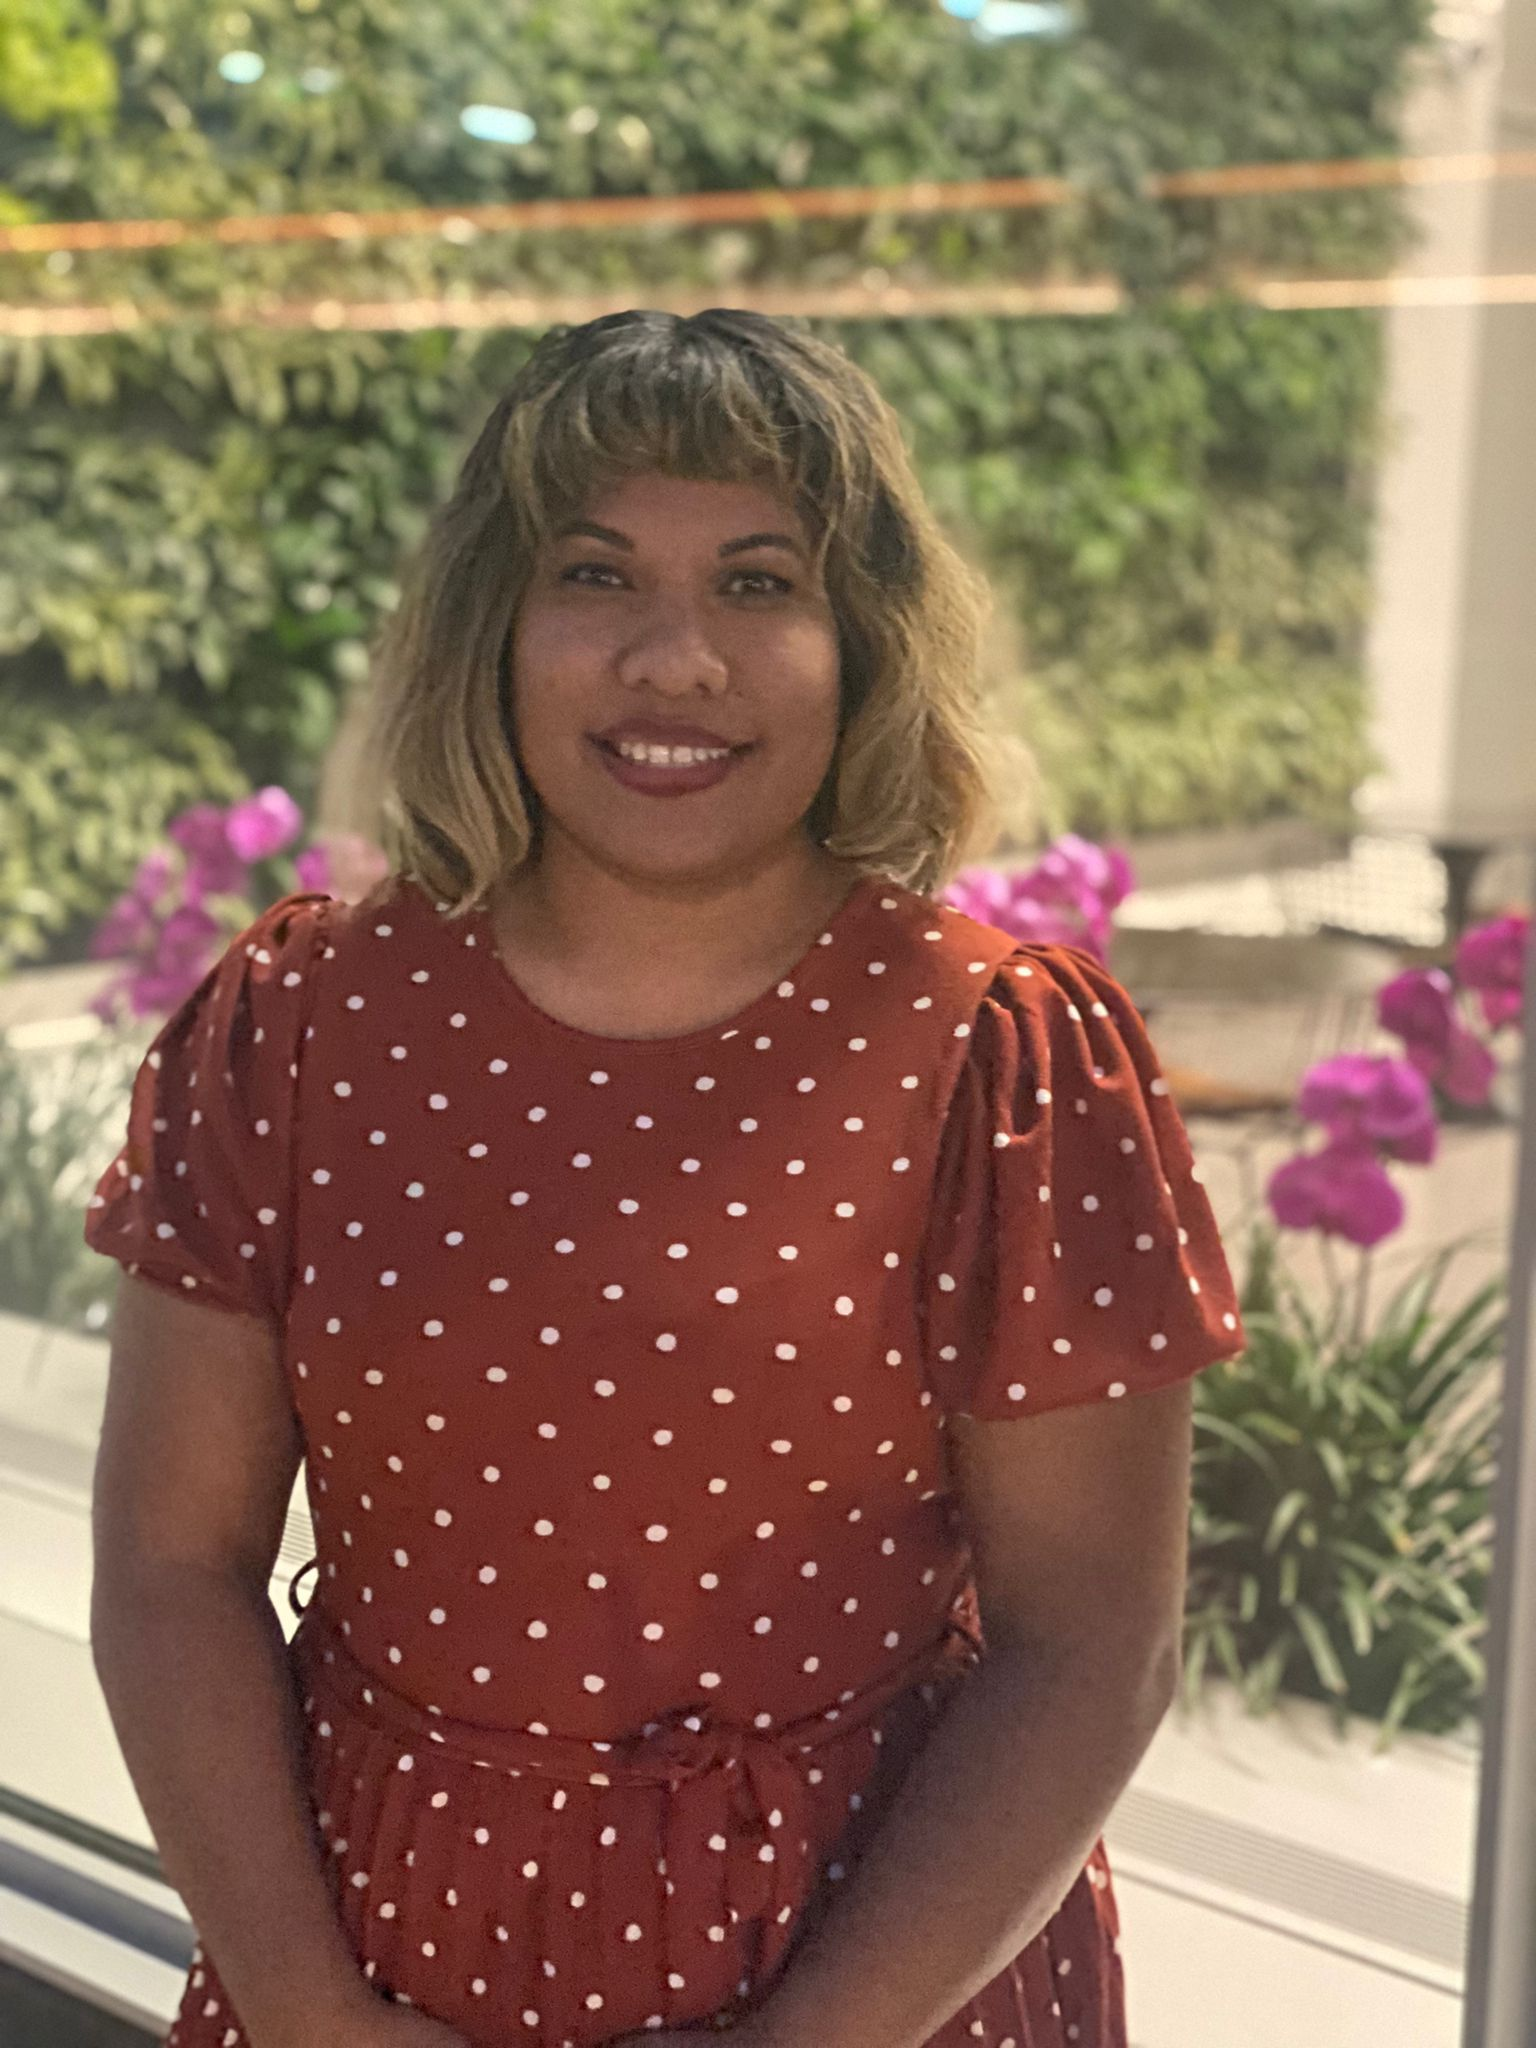
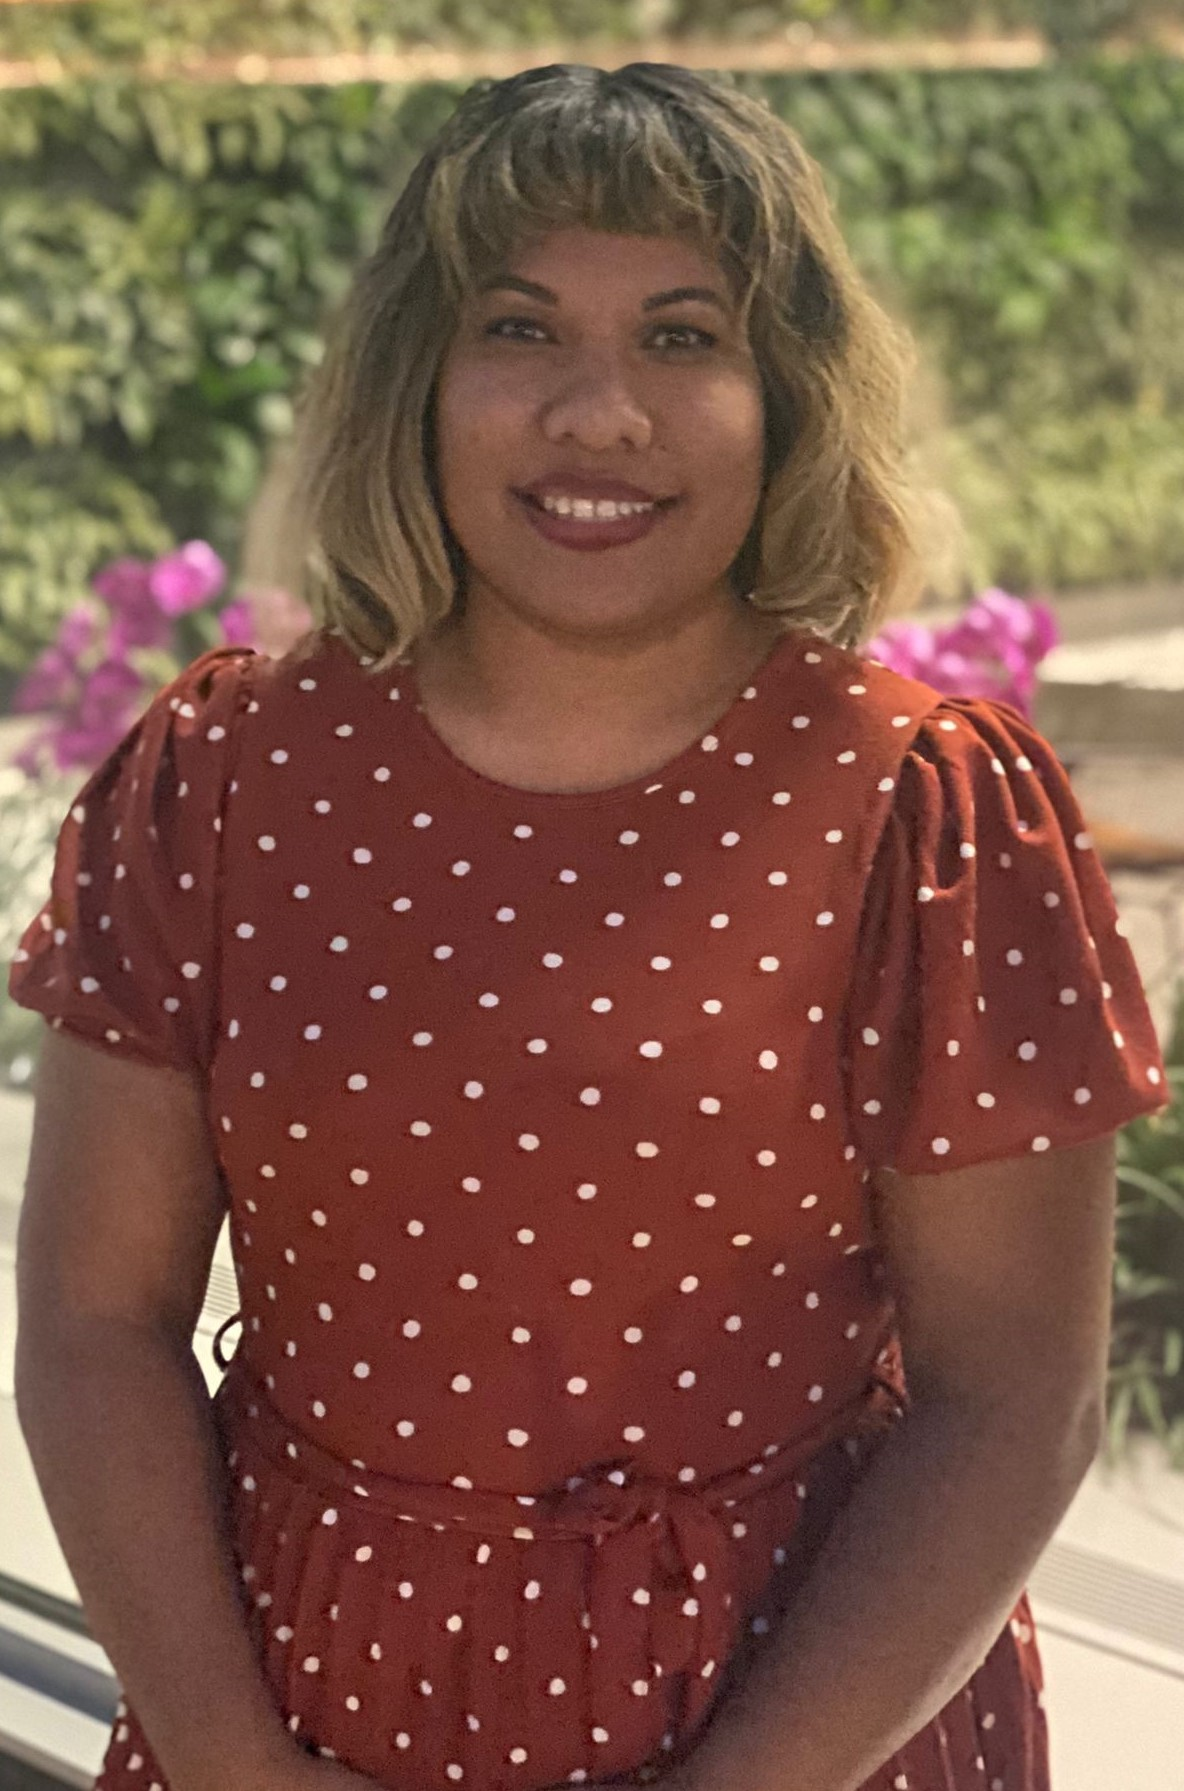
updated pic

diff --git a/index.html b/index.html
@@ -29,15 +29,13 @@
         <h1>The Making of a Software Engineer: Cynthia Hutauruk</h1>
         <h3>Welcome to my extraordinary life!</h3>
         <nav>
-            <a href="index.html"> Home </a>
+            <a href="index.html"> Home </a> &nbsp
             <a href="pages/stories.html"> Favorite Show </a>
     </nav>
     </div>
-    #<div id="cyphpic">
-        <img src="ProfileCYPH.jpg" class="center">
-        </p>
-    #</div>
     <div id="div2">
+        <br>
+        <img src="resprofile.jpg" class="center">
         <p id="paraAboutMe"><span>Hello there! I am a software engineer based out of Denver, Colorado. Originally I came from Indonesia, spent five years soaking up the sun in Southern California and have been braving Colorado's temperamental weather since 1996. 
         <br><br>
         I have a background in psychology, computer information systems, healthcare finance and research analysis. My mission is to create accurate patient narratives through data. I would love to collaborate with you on your business needs.</span></p>
@@ -45,20 +43,18 @@
         <p>If you're interested in connecting professionally, you can find me on LinkedIn below. For pet modeling inquiries, check out my Instagram instead.</p>
 
     </div>
-    <div class="div3">    
-    <h3>Recent projects:</h3>
-            <ul>
-                <p>Hobbies - </p>
+    <div id="div3">  
+        <h3>Recent projects:</h3>
+            <ol>
                 <li><a href="https://github.com/chutauruk/chutauru/blob/master/Durianoffroad.jpg">
-                    Obedience training to prepare my dog, Durian, for pet modeling</a></li>
-                <p>Advanced Psychological Research Methods -</p>
+                    Pet Model in Training, Durian</a></li>
                 <li><a href="https://msudenver.qualtrics.com/jfe/form/SV_3qsJYLqZ3VpWXhs">
                     Final Research Design Survey</a></li>
                 <li><a href="https://drive.google.com/file/d/1CVoiKzaGFPQzs0hWXTGXB9x06ErtSwsJ/view">
                     Final Research Paper</a></li>
-            </ul>
+            </ol>
     </div>
-    <div class="div4">
+    <div id="div4">
         <form> 
             <h3><span>INTERESTED IN A DIGITAL PRESENCE? LET'S TALK</span></h3>
             First Name: <br>
@@ -87,7 +83,7 @@
             <input type="button" name="submit" value="Submit">
         </form>
     </div>
-    <div class="div5">
+    <div id="div5">
         <center>
         <h3>&copy; <a href="https://www.facebook.com/ventixai"> chutauru. </a></h3>
 

diff --git a/pages/stories.html b/pages/stories.html
@@ -11,7 +11,7 @@
     <h3>Welcome to my extraordinary life!</h3>
 
     <nav>
-        <a href="../index.html"> Home </a>
+        <a href="../index.html"> Home </a> &nbsp
         <a href="pages/stories.html"> Favorite Show </a>
     </nav>
     </div>
@@ -46,13 +46,12 @@
             </table>
     </div>
     <div id="div4">
-        <iframe width="560" height="315" src="https://www.youtube.com/embed/MxeXECe2t-c" title="YouTube video player" frameborder="0" allow="accelerometer; autoplay; clipboard-write; encrypted-media; gyroscope; picture-in-picture" allowfullscreen>
+        <iframe width="600" height="315" src="https://www.youtube.com/embed/MxeXECe2t-c" title="YouTube video player" frameborder="0" allow="accelerometer; autoplay; clipboard-write; encrypted-media; gyroscope; picture-in-picture" allowfullscreen>
         </iframe>
     </div>
-    <div class="div5">
+    <div id="div5">
         <center>
         <h3>&copy; <a href="https://www.facebook.com/ventixai"> chutauru. </a></h3>
-
         <nav>
             <a href="https://www.linkedin.com/in/cynthiahutauruk/"><img src="../images/liicon.png" style="border-radius: 50%" width="35" height="35"></a>
             

diff --git a/css/style.css b/css/style.css
@@ -6,16 +6,13 @@
             position: static;
             text-align: left;
         }
-        #divpic{
-            width: 400px; height: 400px;
-            position: static;
-            background: url("https://github.com/chutauruk/chutauru/blob/master/ProfileCYPH.jpg"); border-radius : 50%;
-        }
         .center {
+            width: 300px; height: 500px;
             display: block;
             margin-left: auto;
             margin-right: auto;
-            width: 50%;
+            width: 65%;
+            border-radius: 40%;
         }
         #div2{
             max-width: 600px;
@@ -32,7 +29,7 @@
         }
         #div4{
             display: flex;
-            max-width: 500px;
+            max-width: 600px;
             margin: 0 auto;
             background-color: rgba(179, 182, 184, 0.466);
             position: static;
@@ -44,7 +41,7 @@
             background-color: rgba(179, 182, 184, 0.466);
             position: static;
         }
-        #div1, #div2, #div3, #div4,#div5 {
+        #div1, #divpic, #div2, #div3, #div4,#div5 {
             border: solid;
         }
         body{
